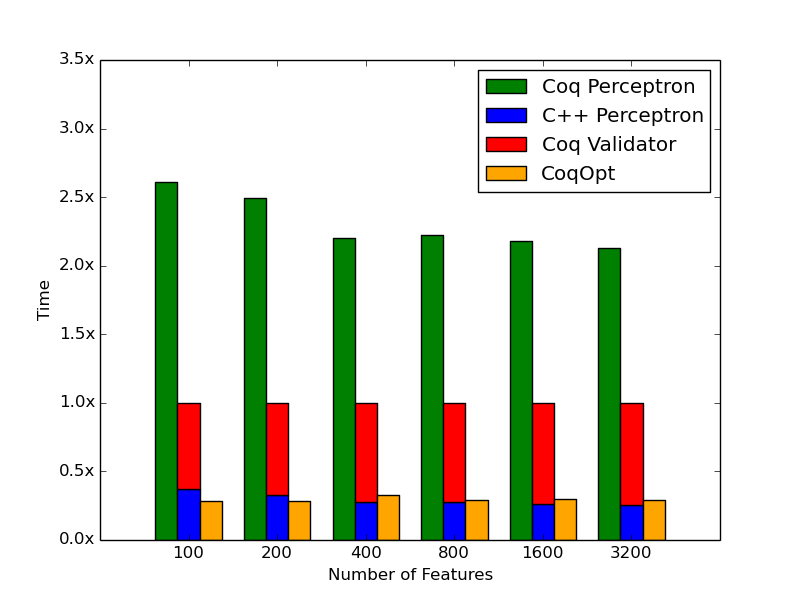
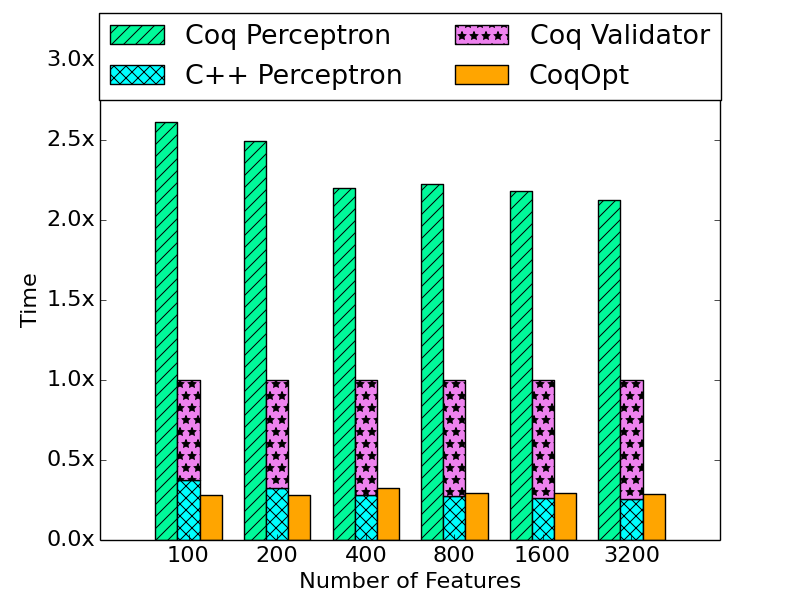
Forgot to add update plot files yesterday

diff --git a/Benchmarks/plots/makeplots.py b/Benchmarks/plots/makeplots.py
@@ -5,6 +5,8 @@ use('Agg')
 import matplotlib.pyplot as plot
 import numpy as np
 
+plot.rcParams.update({'font.size': 16.1})
+
 def plot_data(img_name, file_name, xlabel, yRange = None):
   figure = plot.figure()
   axis = figure.add_subplot(1, 1, 1)
@@ -34,9 +36,9 @@ def plot_data(img_name, file_name, xlabel, yRange = None):
   C = [x / y for (x, y) in zip(C, D)]
   E = [x / y for (x, y) in zip(E, D)]
 
-  a_bar = plot.bar(X-0.375, A, color = 'g', width = 0.25)
-  b_bar = plot.bar(X-0.125, B, color = 'b',width = 0.25)
-  c_bar = plot.bar(X-0.125, C, color = 'r', bottom = B, width = 0.25)
+  a_bar = plot.bar(X-0.375, A, color = '#00fa9a', width = 0.25, hatch='//')
+  b_bar = plot.bar(X-0.125, B, color = 'cyan',width = 0.25, hatch='xx')
+  c_bar = plot.bar(X-0.125, C, color = '#ee82ee', bottom = B, width = 0.25, hatch='*')
   e_bar = plot.bar(X+0.125, E, color = 'orange', width = 0.25)
 
   axis.axes.get_xaxis().set_ticklabels(N)
@@ -49,11 +51,11 @@ def plot_data(img_name, file_name, xlabel, yRange = None):
 
   plot.legend([a_bar, b_bar, c_bar, e_bar],
               ["Coq Perceptron", "C++ Perceptron", "Coq Validator", "CoqOpt"],
-              loc=0)
+              loc="upper center", bbox_to_anchor=(0.5, 1.125), ncol=2)
   plot.xlabel(xlabel)
   plot.ylabel("Time")
   plot.savefig(img_name)
 
-plot_data("images/vecotrs.png", "vectors.plot", "Number of Vectors")
-plot_data("images/features.png", "features.plot", "Number of Features", [0,3.5])
-plot_data("images/Z.png", "Z.plot", u'Precision Bound -- Q = a/Z, a ∈ [-Z, Z]', [0,3.5])
+plot_data("images/VectorsPlot.png", "vectors.plot", "Number of Vectors", [0,9])
+plot_data("images/FeaturePlot.png", "features.plot", "Number of Features", [0,3])
+plot_data("images/ZPlot.png", "Z.plot", u'Precision Bound -- Q = a/Z, a ∈ [-Z, Z]', [0,3])
